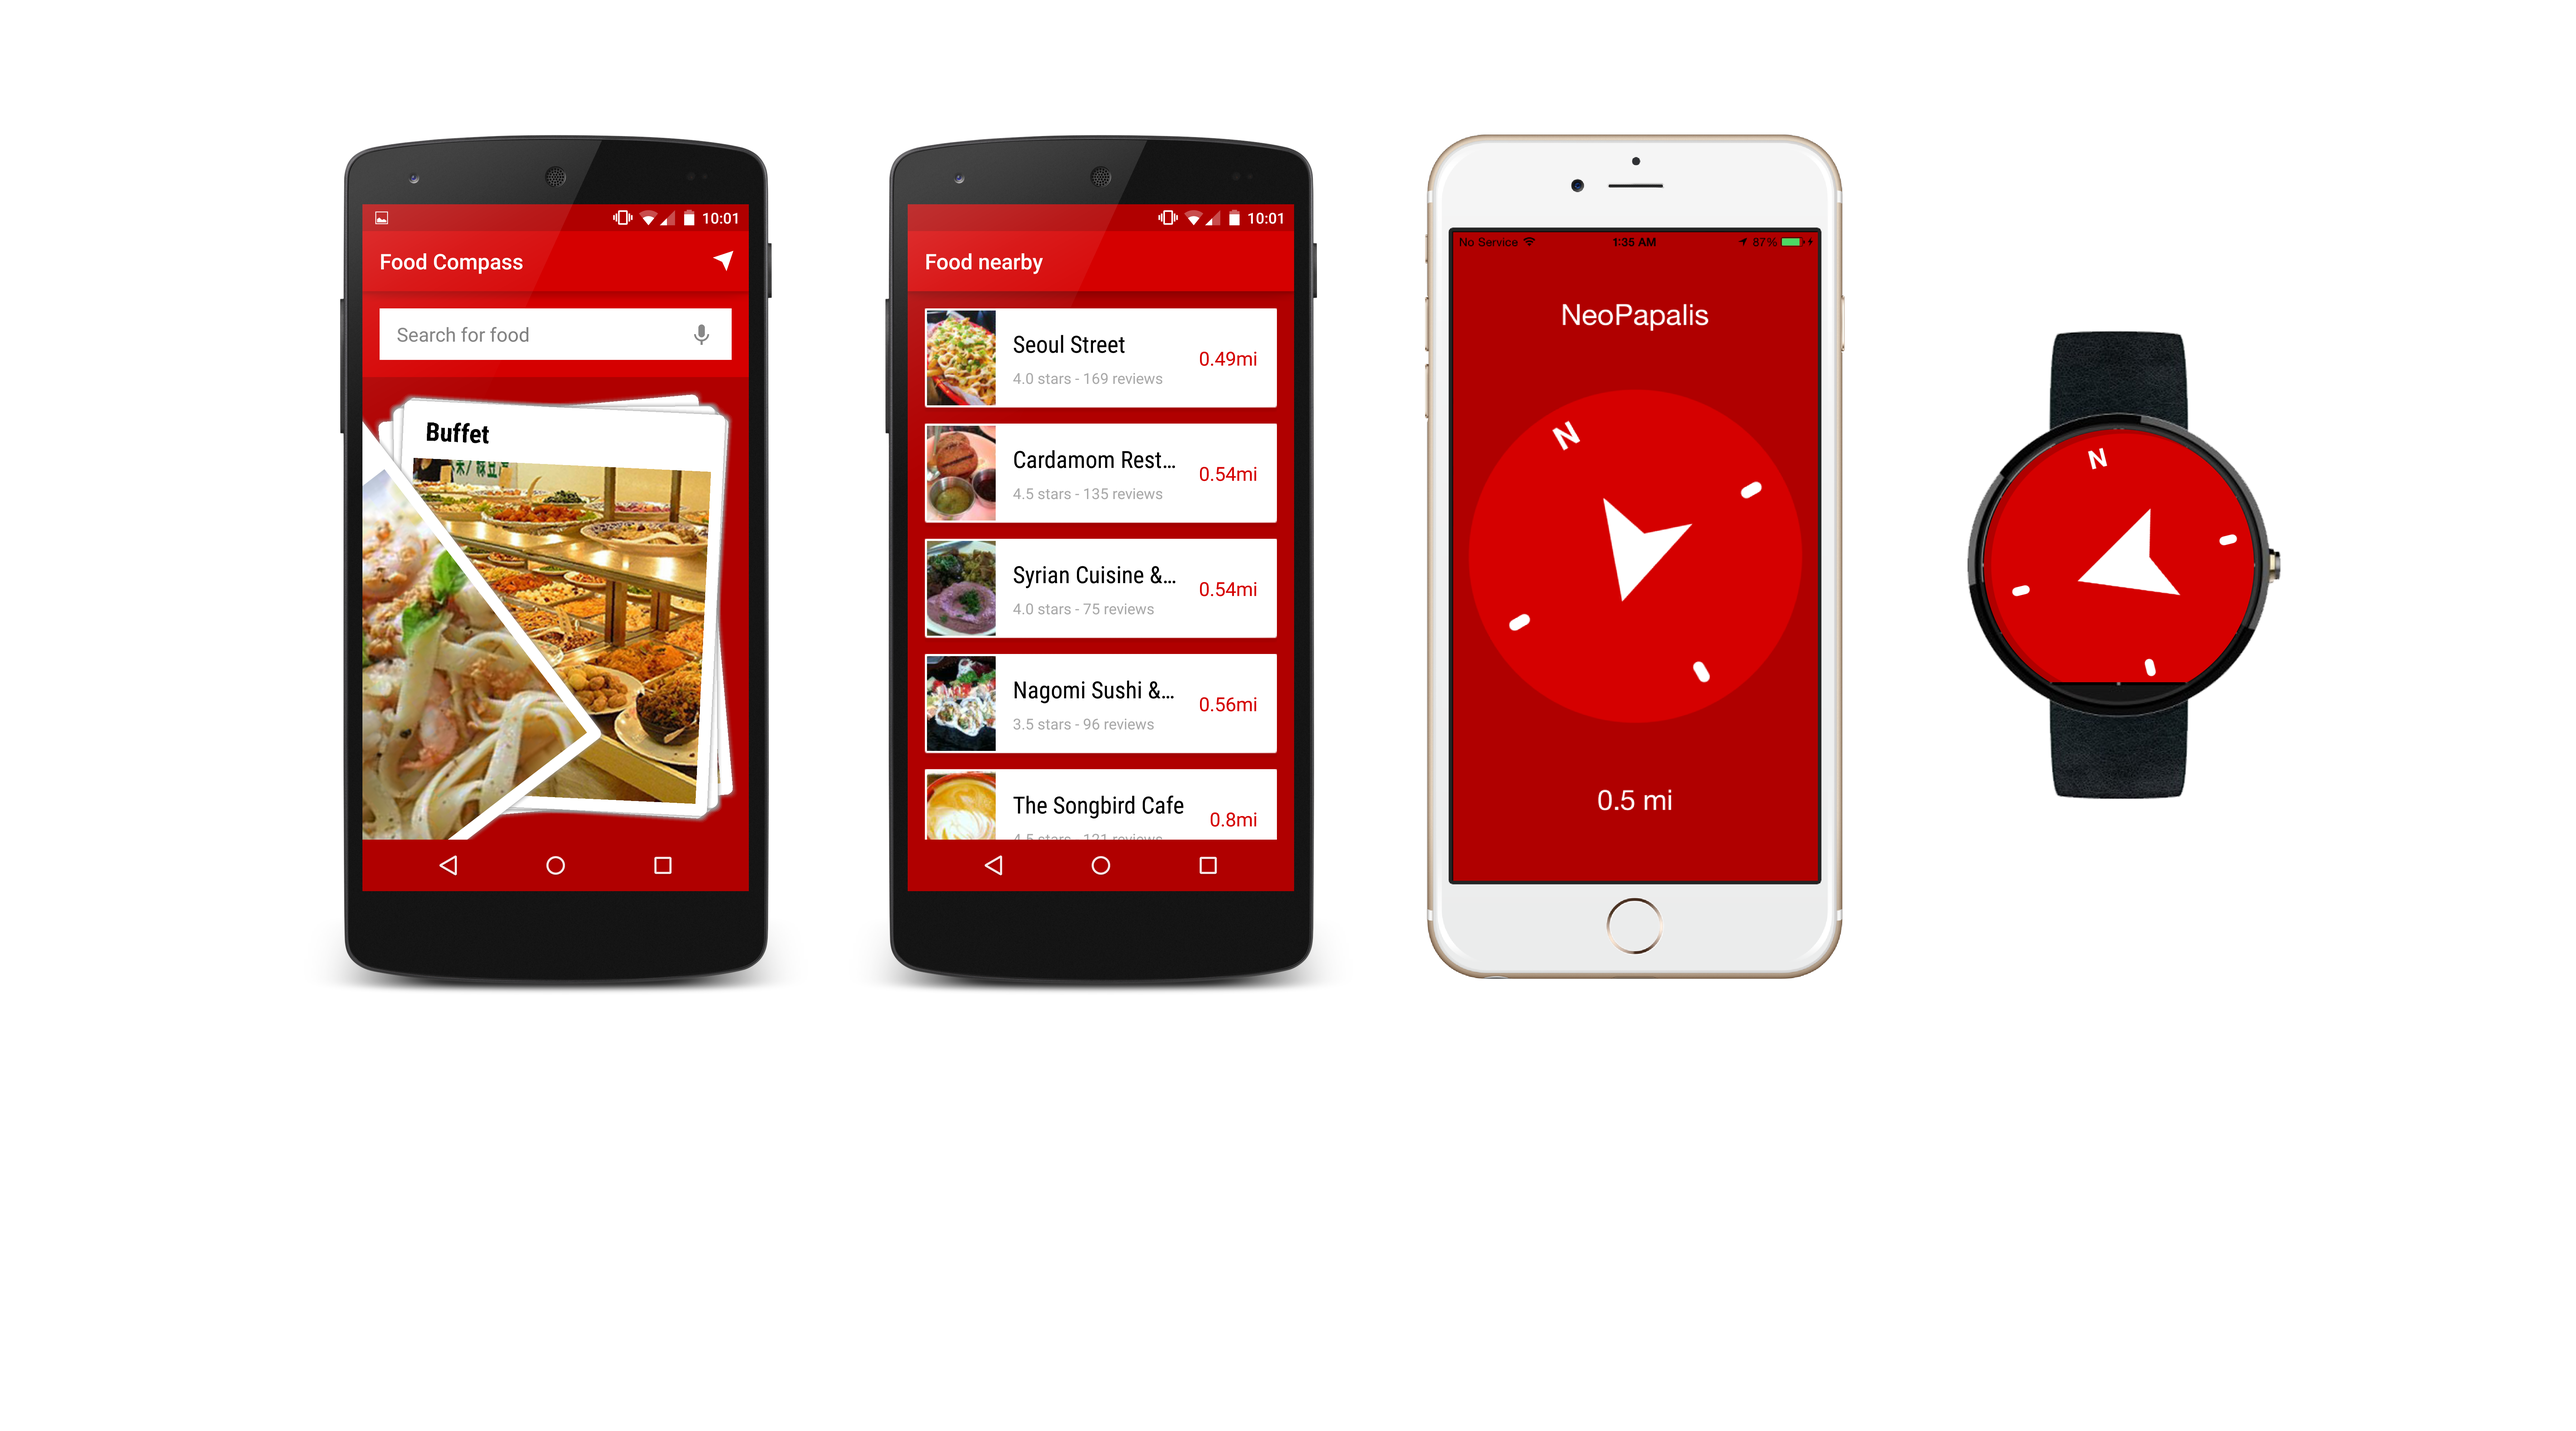
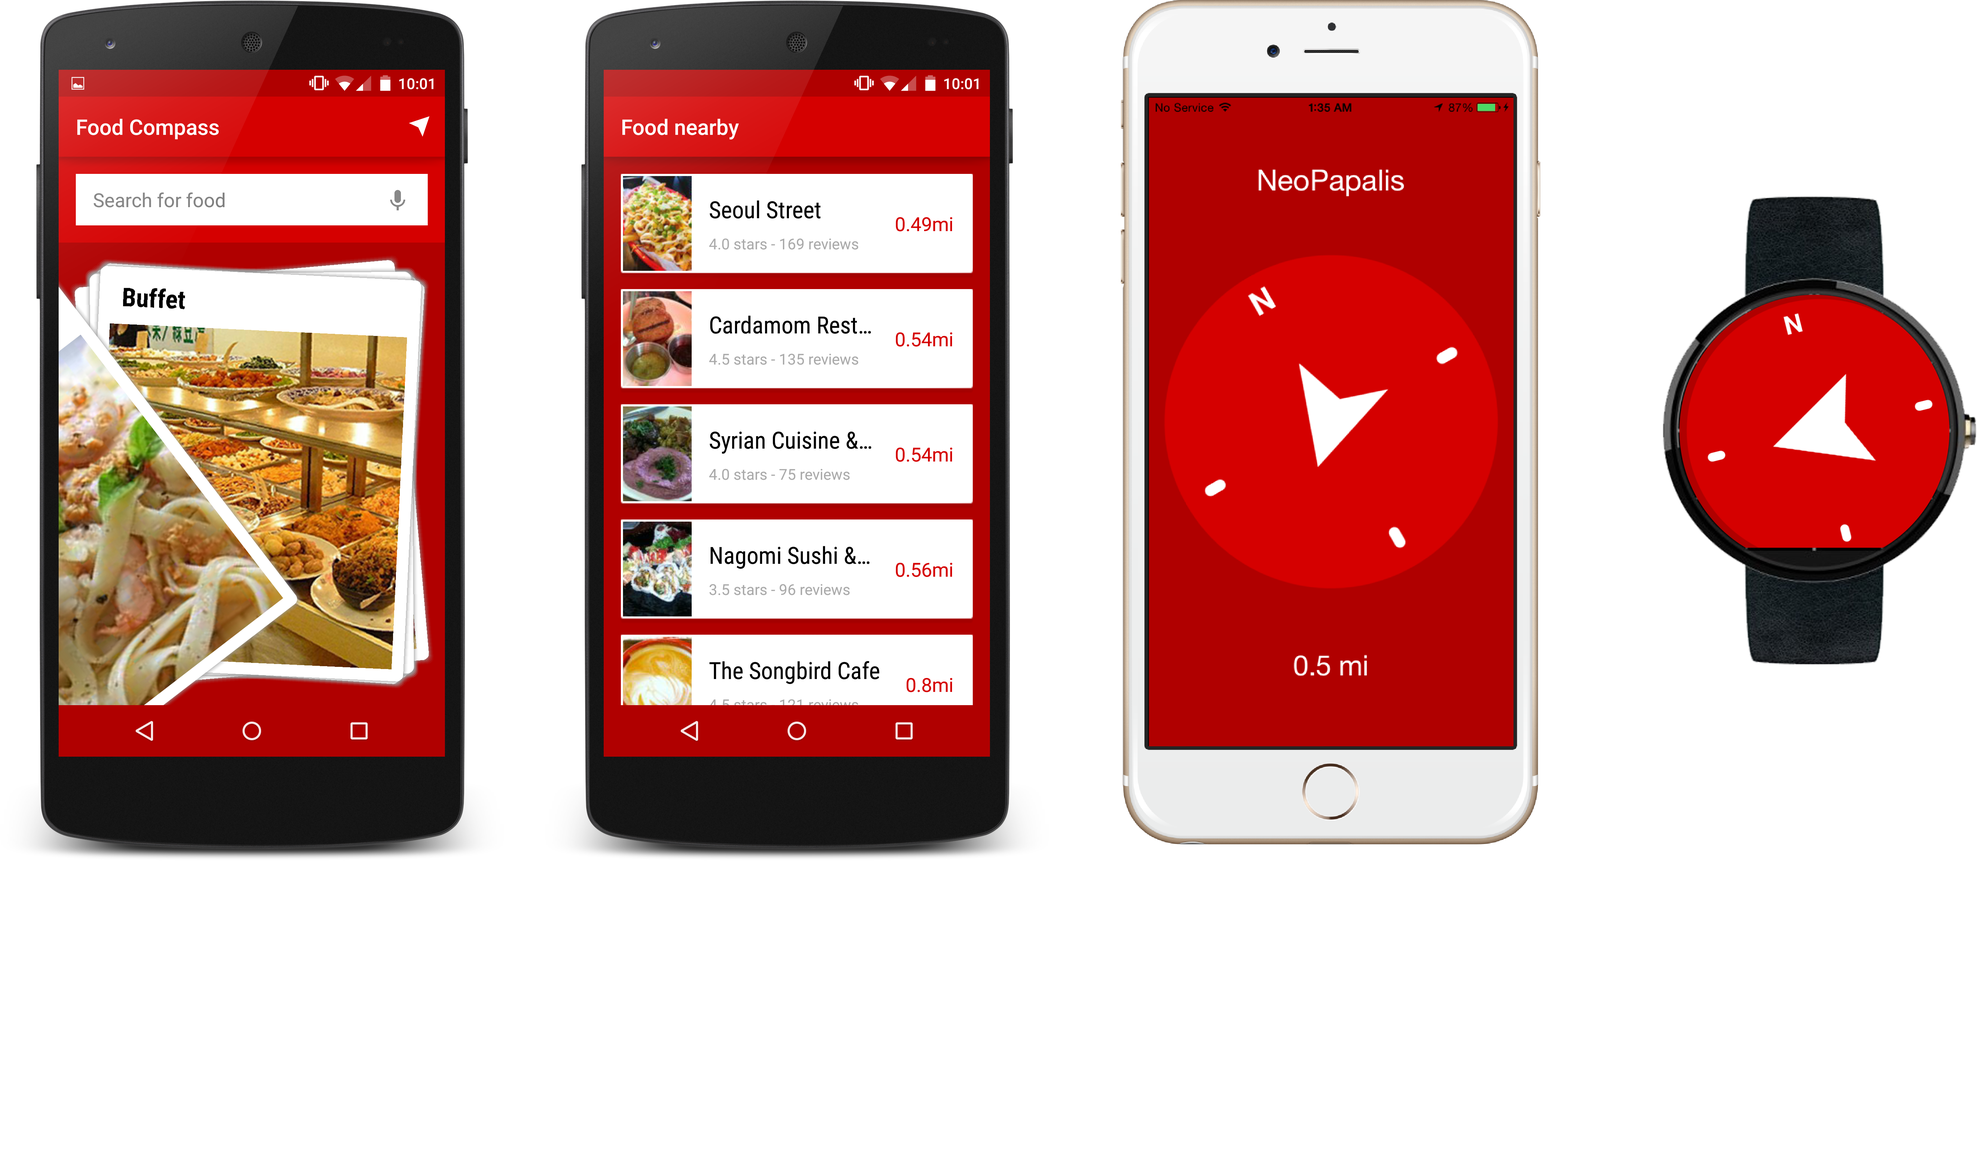
more changes
image resizing

diff --git a/index.html b/index.html
@@ -36,27 +36,26 @@
           </div>
         </div>
         <div class="container">
-            
-               
+            <div class="row">
+                <div class="col-lg-12">
                 
-                        <img src="imgs/screenshot_framed-2.png" class="logo">
+                       <img src="imgs/screenshot_framed-2.png" class="logo">
                         <style type="text/css">
                         .container {position: relative;}
                         .logo {position:absolute;
-                        max-width: 70%;
+                        max-width: 60%;
                         height: auto;
-                    top: 50%;
+                    top: 30%;
                      left: 50%;
                      /* bring your own prefixes */
-                     transform: translate(-50%, -50%);}
+                     transform: translate(-50%, -30%);}
 
-                        </style
+                        </style>
                         
                     
-                    
                  
-                
-            
+                </div>
+            </div>
         </div>
         
     </div>
